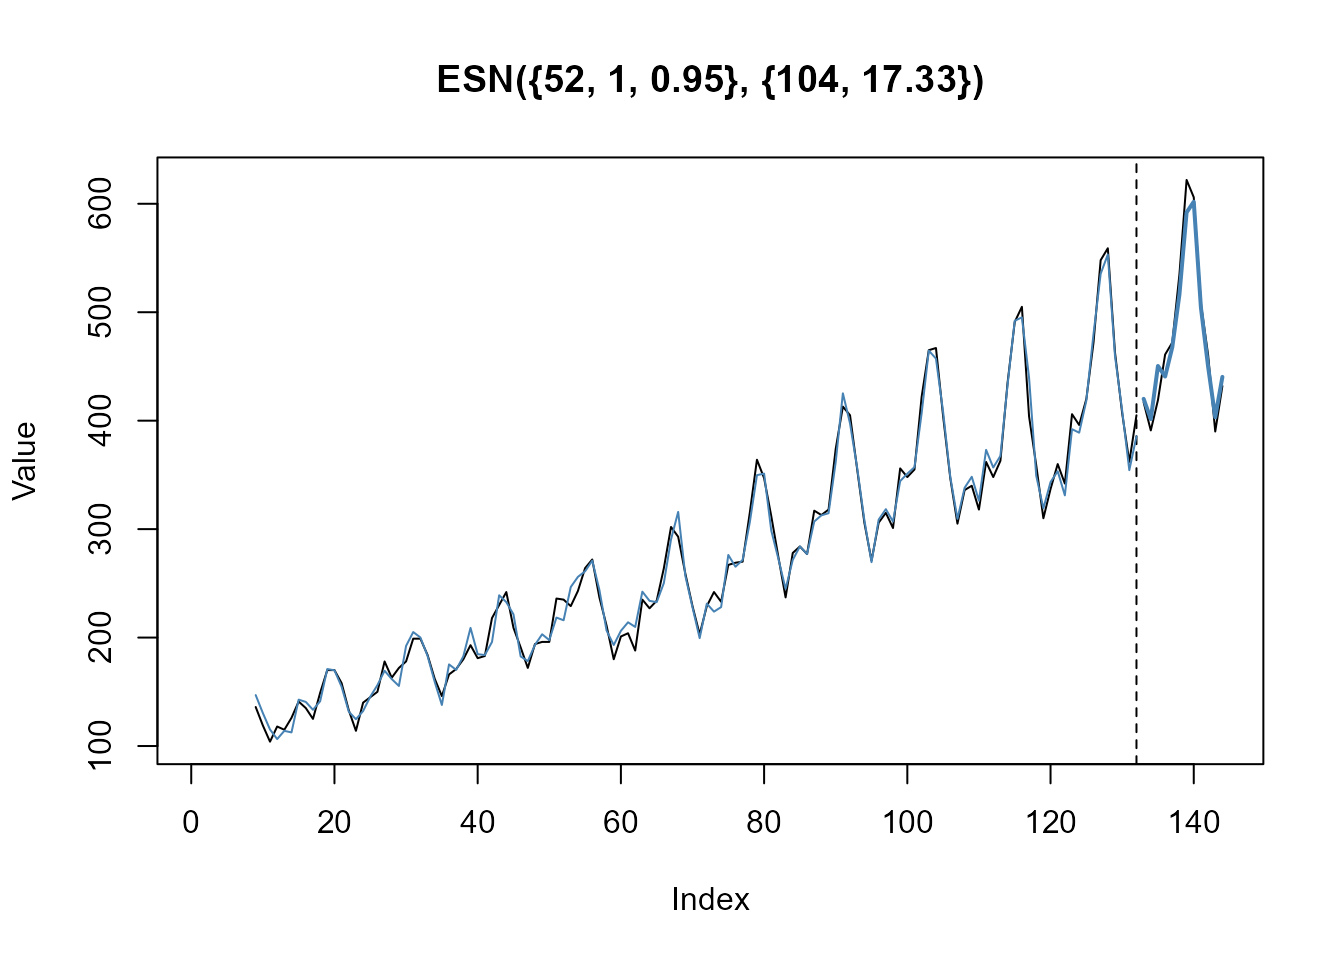
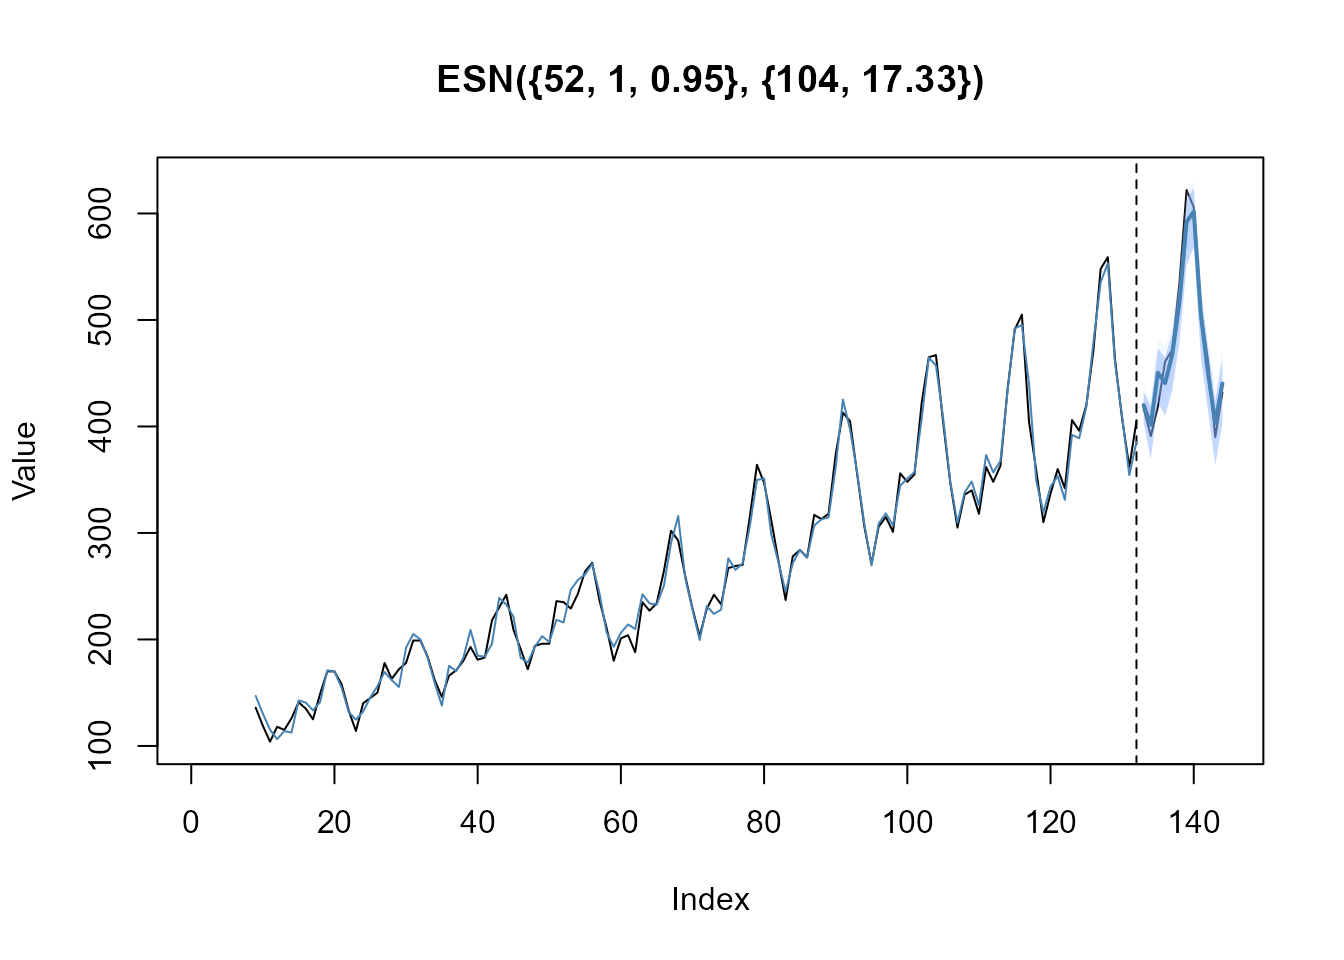
Update README and pkgdown website

diff --git a/docs/reference/forecast_esn.html b/docs/reference/forecast_esn.html
@@ -9,7 +9,7 @@
 
     <a class="navbar-brand me-2" href="../index.html">echos</a>
 
-    <small class="nav-text text-muted me-auto" data-bs-toggle="tooltip" data-bs-placement="bottom" title="">1.0.1</small>
+    <small class="nav-text text-muted me-auto" data-bs-toggle="tooltip" data-bs-placement="bottom" title="">1.0.2</small>
 
 
     <button class="navbar-toggler" type="button" data-bs-toggle="collapse" data-bs-target="#navbar" aria-controls="navbar" aria-expanded="false" aria-label="Toggle navigation">
@@ -47,7 +47,13 @@
 
     <div class="section level2">
     <h2 id="ref-usage">Usage<a class="anchor" aria-label="anchor" href="#ref-usage"></a></h2>
-    <div class="sourceCode"><pre class="sourceCode r"><code><span><span class="fu">forecast_esn</span><span class="op">(</span><span class="va">object</span>, n_ahead <span class="op">=</span> <span class="fl">18</span><span class="op">)</span></span></code></pre></div>
+    <div class="sourceCode"><pre class="sourceCode r"><code><span><span class="fu">forecast_esn</span><span class="op">(</span></span>
+<span>  <span class="va">object</span>,</span>
+<span>  n_ahead <span class="op">=</span> <span class="fl">18</span>,</span>
+<span>  levels <span class="op">=</span> <span class="fu"><a href="https://rdrr.io/r/base/c.html" class="external-link">c</a></span><span class="op">(</span><span class="fl">80</span>, <span class="fl">95</span><span class="op">)</span>,</span>
+<span>  n_sim <span class="op">=</span> <span class="fl">100</span>,</span>
+<span>  n_seed <span class="op">=</span> <span class="fl">42</span></span>
+<span><span class="op">)</span></span></code></pre></div>
     </div>
 
     <div class="section level2">
@@ -61,10 +67,24 @@
 <dt id="arg-n-ahead">n_ahead<a class="anchor" aria-label="anchor" href="#arg-n-ahead"></a></dt>
 <dd><p>Integer value. The number of periods for forecasting (i.e. forecast horizon).</p></dd>
 
+
+<dt id="arg-levels">levels<a class="anchor" aria-label="anchor" href="#arg-levels"></a></dt>
+<dd><p>Integer vector. The levels of the forecast intervals, e.g., 80% and 95%.</p></dd>
+
+
+<dt id="arg-n-sim">n_sim<a class="anchor" aria-label="anchor" href="#arg-n-sim"></a></dt>
+<dd><p>Integer value. The number of future sample path generated during simulation.</p></dd>
+
+
+<dt id="arg-n-seed">n_seed<a class="anchor" aria-label="anchor" href="#arg-n-seed"></a></dt>
+<dd><p>Integer value. The seed for the random number generator (for reproducibility).</p></dd>
+
 </dl></div>
     <div class="section level2">
     <h2 id="value">Value<a class="anchor" aria-label="anchor" href="#value"></a></h2>
     <p>A <code>list</code> containing:</p><ul><li><p><code>point</code>: Numeric vector containing the point forecasts.</p></li>
+<li><p><code>interval</code>: Numeric matrix containing the forecast intervals.</p></li>
+<li><p><code>levels</code>: Integer vector. The levels of the forecast intervals.</p></li>
 <li><p><code>actual</code>: Numeric vector containing the actual values.</p></li>
 <li><p><code>fitted</code>: Numeric vector containing the fitted values.</p></li>
 <li><p><code>n_ahead</code>: Integer value. The number of periods for forecasting (forecast horizon).</p></li>

diff --git a/docs/articles/vignette_01_baseR.html b/docs/articles/vignette_01_baseR.html
@@ -25,7 +25,7 @@
 
     <a class="navbar-brand me-2" href="../index.html">echos</a>
 
-    <small class="nav-text text-muted me-auto" data-bs-toggle="tooltip" data-bs-placement="bottom" title="">1.0.1</small>
+    <small class="nav-text text-muted me-auto" data-bs-toggle="tooltip" data-bs-placement="bottom" title="">1.0.2</small>
 
 
     <button class="navbar-toggler" type="button" data-bs-toggle="collapse" data-bs-target="#navbar" aria-controls="navbar" aria-expanded="false" aria-label="Toggle navigation">
@@ -258,6 +258,24 @@ the future. The output <code>xfcst</code> is a list of class
 <span><span class="co">#&gt; $point</span></span>
 <span><span class="co">#&gt;  [1] 420.1502 401.4111 450.4424 440.6994 467.7241 516.4456 591.9815 601.8765</span></span>
 <span><span class="co">#&gt;  [9] 504.3060 450.0242 403.1496 440.3876</span></span>
+<span><span class="co">#&gt; </span></span>
+<span><span class="co">#&gt; $interval</span></span>
+<span><span class="co">#&gt;       lower(80) lower(95) upper(80) upper(95)</span></span>
+<span><span class="co">#&gt;  [1,]  403.3278  410.6971  432.0665  438.9093</span></span>
+<span><span class="co">#&gt;  [2,]  369.2789  387.0221  419.8134  424.2326</span></span>
+<span><span class="co">#&gt;  [3,]  422.2360  431.7216  473.0273  482.3124</span></span>
+<span><span class="co">#&gt;  [4,]  410.1604  422.1158  464.5021  475.1435</span></span>
+<span><span class="co">#&gt;  [5,]  433.6539  441.8091  488.2601  500.1639</span></span>
+<span><span class="co">#&gt;  [6,]  478.7933  494.4965  536.8348  549.7008</span></span>
+<span><span class="co">#&gt;  [7,]  551.2602  561.9606  612.1552  620.6859</span></span>
+<span><span class="co">#&gt;  [8,]  568.4768  577.9150  624.1595  631.5152</span></span>
+<span><span class="co">#&gt;  [9,]  463.8383  480.7723  525.5133  533.9554</span></span>
+<span><span class="co">#&gt; [10,]  414.2525  428.2901  474.4605  482.0309</span></span>
+<span><span class="co">#&gt; [11,]  363.6130  383.1924  423.6801  437.9840</span></span>
+<span><span class="co">#&gt; [12,]  403.0206  421.0293  464.5125  473.7919</span></span>
+<span><span class="co">#&gt; </span></span>
+<span><span class="co">#&gt; $levels</span></span>
+<span><span class="co">#&gt; [1] 80 95</span></span>
 <span><span class="co">#&gt; </span></span>
 <span><span class="co">#&gt; $actual</span></span>
 <span><span class="co">#&gt;   [1]  NA  NA  NA  NA  NA  NA  NA  NA 136 119 104 118 115 126 141 135 125 149</span></span>

diff --git a/docs/reference/plot.forecast_esn.html b/docs/reference/plot.forecast_esn.html
@@ -11,7 +11,7 @@
 
     <a class="navbar-brand me-2" href="../index.html">echos</a>
 
-    <small class="nav-text text-muted me-auto" data-bs-toggle="tooltip" data-bs-placement="bottom" title="">1.0.1</small>
+    <small class="nav-text text-muted me-auto" data-bs-toggle="tooltip" data-bs-placement="bottom" title="">1.0.2</small>
 
 
     <button class="navbar-toggler" type="button" data-bs-toggle="collapse" data-bs-target="#navbar" aria-controls="navbar" aria-expanded="false" aria-label="Toggle navigation">
@@ -51,7 +51,7 @@
     <div class="section level2">
     <h2 id="ref-usage">Usage<a class="anchor" aria-label="anchor" href="#ref-usage"></a></h2>
     <div class="sourceCode"><pre class="sourceCode r"><code><span><span class="co"># S3 method for class 'forecast_esn'</span></span>
-<span><span class="fu"><a href="https://rdrr.io/r/graphics/plot.default.html" class="external-link">plot</a></span><span class="op">(</span><span class="va">x</span>, test <span class="op">=</span> <span class="cn">NULL</span>, fitted <span class="op">=</span> <span class="cn">TRUE</span>, <span class="va">...</span><span class="op">)</span></span></code></pre></div>
+<span><span class="fu"><a href="https://rdrr.io/r/graphics/plot.default.html" class="external-link">plot</a></span><span class="op">(</span><span class="va">x</span>, test <span class="op">=</span> <span class="cn">NULL</span>, fitted <span class="op">=</span> <span class="cn">TRUE</span>, interval <span class="op">=</span> <span class="cn">TRUE</span>, n_obs <span class="op">=</span> <span class="cn">NULL</span>, <span class="va">...</span><span class="op">)</span></span></code></pre></div>
     </div>
 
     <div class="section level2">
@@ -68,6 +68,14 @@
 
 <dt id="arg-fitted">fitted<a class="anchor" aria-label="anchor" href="#arg-fitted"></a></dt>
 <dd><p>Logical value. If <code>TRUE</code>, fitted values are added.</p></dd>
+
+
+<dt id="arg-interval">interval<a class="anchor" aria-label="anchor" href="#arg-interval"></a></dt>
+<dd><p>Logical value. If <code>TRUE</code>, forecast intervals are added.</p></dd>
+
+
+<dt id="arg-n-obs">n_obs<a class="anchor" aria-label="anchor" href="#arg-n-obs"></a></dt>
+<dd><p>Integer value. If <code>NULL</code>, all in-sample values are shown, otherwise only the last <code>n_obs</code>.</p></dd>
 
 
 <dt id="arg--">...<a class="anchor" aria-label="anchor" href="#arg--"></a></dt>

diff --git a/docs/authors.html b/docs/authors.html
@@ -7,7 +7,7 @@
 
     <a class="navbar-brand me-2" href="index.html">echos</a>
 
-    <small class="nav-text text-muted me-auto" data-bs-toggle="tooltip" data-bs-placement="bottom" title="">1.0.1</small>
+    <small class="nav-text text-muted me-auto" data-bs-toggle="tooltip" data-bs-placement="bottom" title="">1.0.2</small>
 
 
     <button class="navbar-toggler" type="button" data-bs-toggle="collapse" data-bs-target="#navbar" aria-controls="navbar" aria-expanded="false" aria-label="Toggle navigation">
@@ -51,13 +51,13 @@
 
       <p>Häußer A (2025).
 <em>echos: Echo State Networks for Time Series Modeling and Forecasting</em>.
-R package version 1.0.1, https://ahaeusser.github.io/echos/, <a href="https://github.com/ahaeusser/echos" class="external-link">https://github.com/ahaeusser/echos</a>.
+R package version 1.0.2, https://ahaeusser.github.io/echos/, <a href="https://github.com/ahaeusser/echos" class="external-link">https://github.com/ahaeusser/echos</a>.
 </p>
       <pre>@Manual{,
   title = {echos: Echo State Networks for Time Series Modeling and Forecasting},
   author = {Alexander Häußer},
   year = {2025},
-  note = {R package version 1.0.1, https://ahaeusser.github.io/echos/},
+  note = {R package version 1.0.2, https://ahaeusser.github.io/echos/},
   url = {https://github.com/ahaeusser/echos},
 }</pre>
     </div>

diff --git a/docs/reference/m4_data.html b/docs/reference/m4_data.html
@@ -25,7 +25,7 @@ M4813 (Macro), 1994 Apr - 2006 May
 
     <a class="navbar-brand me-2" href="../index.html">echos</a>
 
-    <small class="nav-text text-muted me-auto" data-bs-toggle="tooltip" data-bs-placement="bottom" title="">1.0.1</small>
+    <small class="nav-text text-muted me-auto" data-bs-toggle="tooltip" data-bs-placement="bottom" title="">1.0.2</small>
 
 
     <button class="navbar-toggler" type="button" data-bs-toggle="collapse" data-bs-target="#navbar" aria-controls="navbar" aria-expanded="false" aria-label="Toggle navigation">

diff --git a/docs/404.html b/docs/404.html
@@ -26,7 +26,7 @@
 
     <a class="navbar-brand me-2" href="https://ahaeusser.github.io/echos/index.html">echos</a>
 
-    <small class="nav-text text-muted me-auto" data-bs-toggle="tooltip" data-bs-placement="bottom" title="">1.0.1</small>
+    <small class="nav-text text-muted me-auto" data-bs-toggle="tooltip" data-bs-placement="bottom" title="">1.0.2</small>
 
 
     <button class="navbar-toggler" type="button" data-bs-toggle="collapse" data-bs-target="#navbar" aria-controls="navbar" aria-expanded="false" aria-label="Toggle navigation">

diff --git a/docs/reference/glance.ESN.html b/docs/reference/glance.ESN.html
@@ -35,7 +35,7 @@ mae: Mean Absolute Error.
 
     <a class="navbar-brand me-2" href="../index.html">echos</a>
 
-    <small class="nav-text text-muted me-auto" data-bs-toggle="tooltip" data-bs-placement="bottom" title="">1.0.1</small>
+    <small class="nav-text text-muted me-auto" data-bs-toggle="tooltip" data-bs-placement="bottom" title="">1.0.2</small>
 
 
     <button class="navbar-toggler" type="button" data-bs-toggle="collapse" data-bs-target="#navbar" aria-controls="navbar" aria-expanded="false" aria-label="Toggle navigation">

diff --git a/docs/reference/synthetic_data.html b/docs/reference/synthetic_data.html
@@ -33,7 +33,7 @@ Random Walk Process
 
     <a class="navbar-brand me-2" href="../index.html">echos</a>
 
-    <small class="nav-text text-muted me-auto" data-bs-toggle="tooltip" data-bs-placement="bottom" title="">1.0.1</small>
+    <small class="nav-text text-muted me-auto" data-bs-toggle="tooltip" data-bs-placement="bottom" title="">1.0.2</small>
 
 
     <button class="navbar-toggler" type="button" data-bs-toggle="collapse" data-bs-target="#navbar" aria-controls="navbar" aria-expanded="false" aria-label="Toggle navigation">

diff --git a/docs/articles/vignette_02_tidyR.html b/docs/articles/vignette_02_tidyR.html
@@ -25,7 +25,7 @@
 
     <a class="navbar-brand me-2" href="../index.html">echos</a>
 
-    <small class="nav-text text-muted me-auto" data-bs-toggle="tooltip" data-bs-placement="bottom" title="">1.0.1</small>
+    <small class="nav-text text-muted me-auto" data-bs-toggle="tooltip" data-bs-placement="bottom" title="">1.0.2</small>
 
 
     <button class="navbar-toggler" type="button" data-bs-toggle="collapse" data-bs-target="#navbar" aria-controls="navbar" aria-expanded="false" aria-label="Toggle navigation">

diff --git a/docs/articles/vignette_03_datasets.html b/docs/articles/vignette_03_datasets.html
@@ -25,7 +25,7 @@
 
     <a class="navbar-brand me-2" href="../index.html">echos</a>
 
-    <small class="nav-text text-muted me-auto" data-bs-toggle="tooltip" data-bs-placement="bottom" title="">1.0.1</small>
+    <small class="nav-text text-muted me-auto" data-bs-toggle="tooltip" data-bs-placement="bottom" title="">1.0.2</small>
 
 
     <button class="navbar-toggler" type="button" data-bs-toggle="collapse" data-bs-target="#navbar" aria-controls="navbar" aria-expanded="false" aria-label="Toggle navigation">

diff --git a/docs/reference/reservoir.html b/docs/reference/reservoir.html
@@ -11,7 +11,7 @@
 
     <a class="navbar-brand me-2" href="../index.html">echos</a>
 
-    <small class="nav-text text-muted me-auto" data-bs-toggle="tooltip" data-bs-placement="bottom" title="">1.0.1</small>
+    <small class="nav-text text-muted me-auto" data-bs-toggle="tooltip" data-bs-placement="bottom" title="">1.0.2</small>
 
 
     <button class="navbar-toggler" type="button" data-bs-toggle="collapse" data-bs-target="#navbar" aria-controls="navbar" aria-expanded="false" aria-label="Toggle navigation">

diff --git a/docs/reference/train_esn.html b/docs/reference/train_esn.html
@@ -11,7 +11,7 @@
 
     <a class="navbar-brand me-2" href="../index.html">echos</a>
 
-    <small class="nav-text text-muted me-auto" data-bs-toggle="tooltip" data-bs-placement="bottom" title="">1.0.1</small>
+    <small class="nav-text text-muted me-auto" data-bs-toggle="tooltip" data-bs-placement="bottom" title="">1.0.2</small>
 
 
     <button class="navbar-toggler" type="button" data-bs-toggle="collapse" data-bs-target="#navbar" aria-controls="navbar" aria-expanded="false" aria-label="Toggle navigation">
